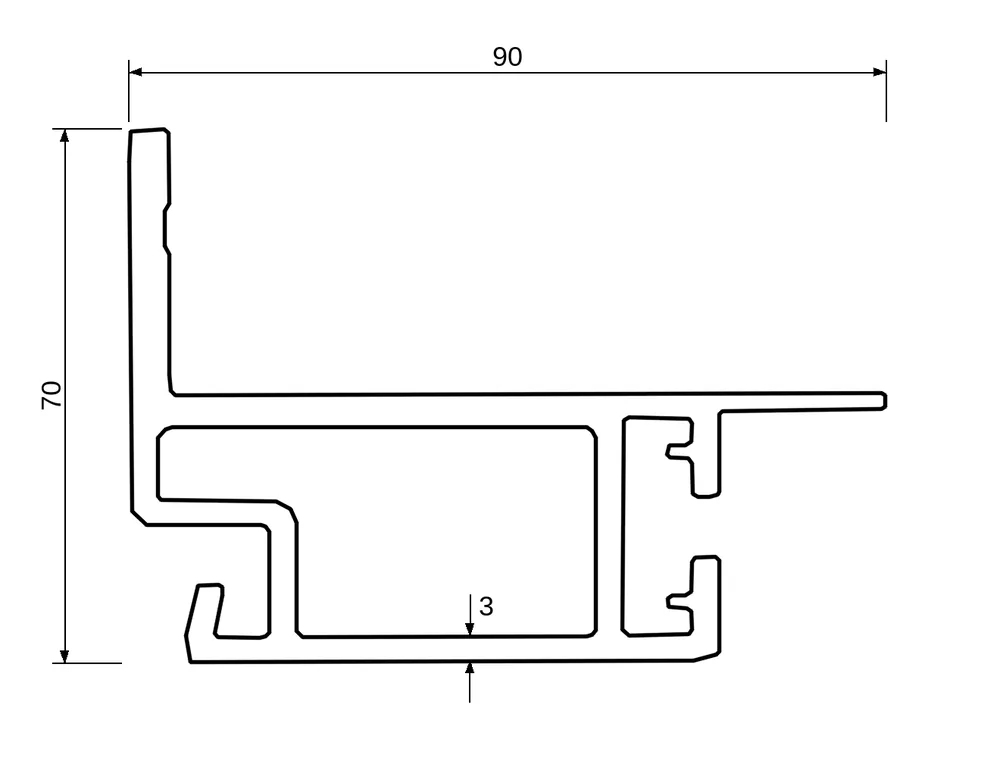
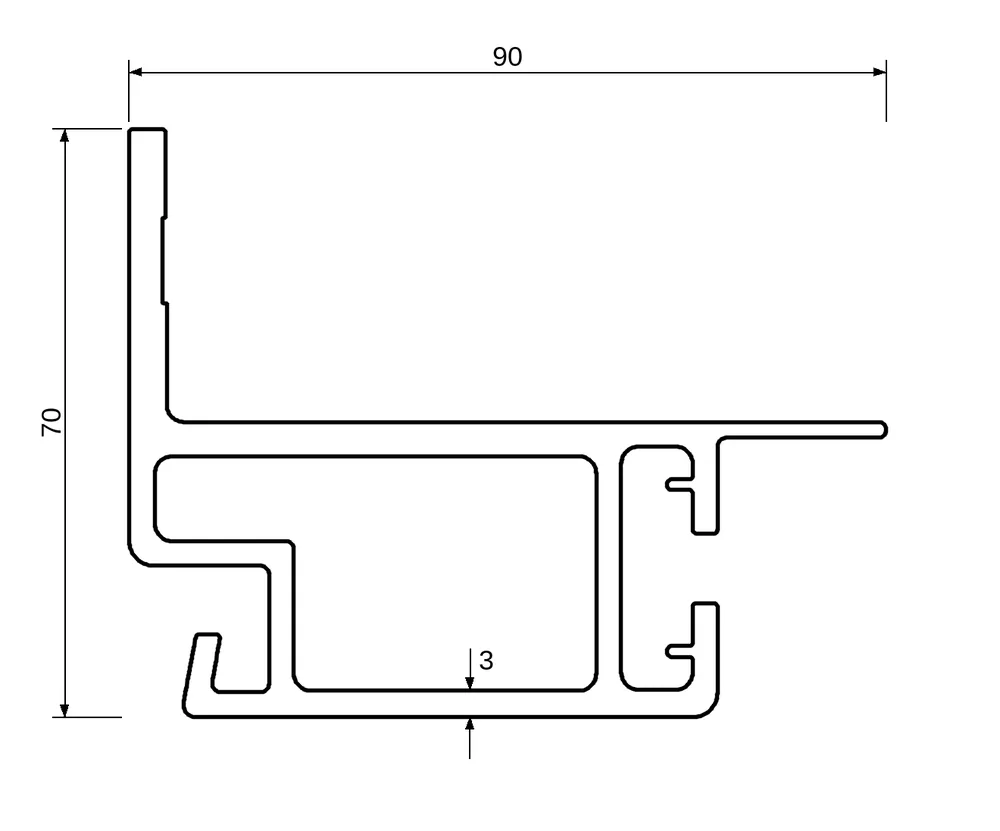
6612225: a profil a gyári rajz körvonalpontjaiból vektorosan felépítve, a rajz szerinti ívelt sarkokkal (R3/R2/R1)
Claude-Session: https://claude.ai/code/session_01GqcGcrqDWYvNfyrVUkczEM

diff --git a/scripts/termekadatok/tiszta_rajzok.py b/scripts/termekadatok/tiszta_rajzok.py
@@ -55,11 +55,6 @@ DECIN = {
         ("clear", [(603.3, 430), (607, 430), (607, 444), (603.3, 444)]),
         ("fill", [(556, 432.9), (597.4, 432.9), (603.2, 436.5), (603.2, 441.8), (595.6, 441.8), (594.2, 439.6), (556, 439.6)]),
     ], "40", "126,5", "3", ("h", 0.72), 0.12, 5),
-    # 6612225: a 2 mm-es lemez lekerekített vége a jelölések nélkül újrarajzolva
-    "6612225-elso-oszlop-90-70-alu-elox-d": ("12225", 110, 12, [
-        ("clear", [(555, 262), (580, 262), (580, 286), (555, 286)]),
-        ("fill", [(555, 268.4), (572, 268.4), (573.3, 269.8), (573.7, 273.4), (573.3, 277), (572, 278.4), (555, 278.4)]),
-    ], "90", "70", "3", ("v", 0.45), None, 15, 4),
     "2073902-i-90-csavarozhato-kereszttarto": ("10902", 90, 3, [], "85", "90", "3", ("h", 0.40), None, 5, 4),
 }
 
@@ -68,6 +63,7 @@ DECIN = {
 # slug -> (építő függvény neve, szélesség, magasság, falvastagság, a falméret helye)
 VECTOR = {
     "206941-cd-100x30-mm-alafutasgatlo-elox-profil": ("profil_6941", "30,3", "100", "1,9", ("h", 0.80)),
+    "6612225-elso-oszlop-90-70-alu-elox-d": ("profil_12225", "90", "70", "3", ("v", 0.45)),
 }
 
 
@@ -90,6 +86,48 @@ def profil_6941():
     for g in grooves:
         prof = prof.difference(g)
     return prof
+
+
+def fillet(pts, radii, n=12):
+    """Sokszög lekerekítése: minden csúcs a megadott sugarú, mindkét élhez érintő ívvel (domború és homorú is)."""
+    out = []
+    P = [np.array(p, float) for p in pts]
+    for i, (p, r) in enumerate(zip(P, radii)):
+        if not r:
+            out.append(tuple(p))
+            continue
+        a, b = P[i - 1], P[(i + 1) % len(P)]
+        u, v = (a - p) / np.linalg.norm(a - p), (b - p) / np.linalg.norm(b - p)
+        th = math.acos(max(-1.0, min(1.0, float(u @ v))))
+        d = r / math.tan(th / 2)
+        bis = (u + v) / np.linalg.norm(u + v)
+        c = p + bis * (r / math.sin(th / 2))
+        t1, t2 = p + u * d, p + v * d
+        a1, a2 = math.atan2(*(t1 - c)[::-1]), math.atan2(*(t2 - c)[::-1])
+        da = (a2 - a1 + math.pi) % (2 * math.pi) - math.pi
+        out += [tuple(c + r * np.array([math.cos(a1 + da * k / n), math.sin(a1 + da * k / n)])) for k in range(n + 1)]
+    return out
+
+
+def profil_12225():
+    """Constellium Děčín 12225 (első oszlop 90/70): a gyári rajz körvonalának pontjai [pt] mm-re átszámítva
+    (a szken vízszintes és függőleges léptéke eltér: 90 mm = 469,3 pt, 70 mm = 330,6 pt). Sarkok a rajz jelölései
+    szerint: z = R3, y = R2, x = R1, a többi él R0,5; a 2 mm-es lemez vége lekerekített."""
+    from shapely.geometry import Polygon
+
+    def mm(pts):
+        return [((x - 104.4) / 5.2144, (y - 105.0) / 4.7229, r) for x, y, r in pts]
+
+    outer = mm([(104.4, 105, 0.5), (127.3, 105, 0.5), (127.3, 155, 0), (125.4, 155, 0), (125.4, 203, 0), (128, 203, 0),
+                (128, 269.3, 2), (573.7, 269.3, 0.9), (573.7, 278.5, 0.9), (469.4, 278.5, 1), (469.4, 332.2, 0.5),
+                (453.6, 332.2, 0.5), (453.6, 307.8, 0.3), (438, 307.8, 0.5), (438, 301.5, 0.5), (453.6, 301.5, 0.3),
+                (453.6, 283.4, 2), (409.7, 283.4, 2), (409.7, 419.6, 2), (453.6, 419.6, 2), (453.6, 401.4, 0.3),
+                (438, 401.4, 0.5), (438, 395, 0.5), (453.6, 395, 0.3), (453.6, 370.9, 0.5), (469.4, 370.9, 0.5),
+                (469.4, 435.2, 3), (136.5, 435.2, 1.5), (146.0, 388.5, 0.5), (161.5, 388.5, 0.5), (155.2, 421, 1),
+                (191.1, 421, 1), (191.1, 350.3, 1), (104.4, 350.3, 3)])
+    cav = mm([(120.8, 289, 2), (393.8, 289, 2), (393.8, 420, 2), (206.8, 420, 2), (206.8, 336.1, 1), (120.8, 336.1, 2)])
+    shape = Polygon(fillet([(x, y) for x, y, _ in outer], [r for *_, r in outer]))
+    return shape.difference(Polygon(fillet([(x, y) for x, y, _ in cav], [r for *_, r in cav])))
 
 
 def vector_mask(geom, scale=30):
